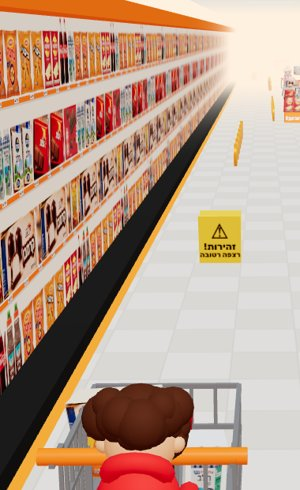
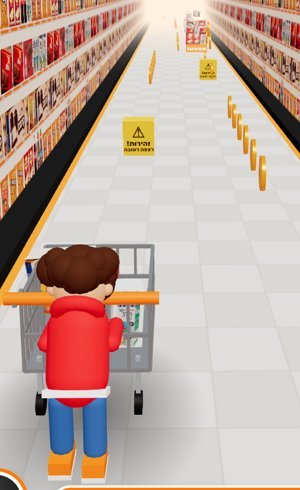
v1.0.1 thumbs

diff --git a/sw.js b/sw.js
@@ -1,4 +1,4 @@
-const CACHE='mo-game-20261013125906';
+const CACHE='mo-game-20261013125957';
 const ASSETS=['./','index.html','cart.html','tower.html','common.css','common.js','kit.js','cart.js','tower.js','vendor/three.js','vendor/cannon.js','fonts/rubik.ttf','manifest.json',
 'img/logo.png','img/icon-512.png','img/thumb_cart.jpg','img/thumb_tower.jpg','img/bamba.png','img/bissli.png','img/tapuchips.png','img/cola.png','img/milk.png','img/tara.jpg','img/elite.jpg','img/para.png','img/krembo.jpg','img/pasta.png','img/cottage.png','img/milky.png','img/shoko.png'];
 self.addEventListener('install',e=>{self.skipWaiting();e.waitUntil(caches.open(CACHE).then(c=>c.addAll(ASSETS)))});
